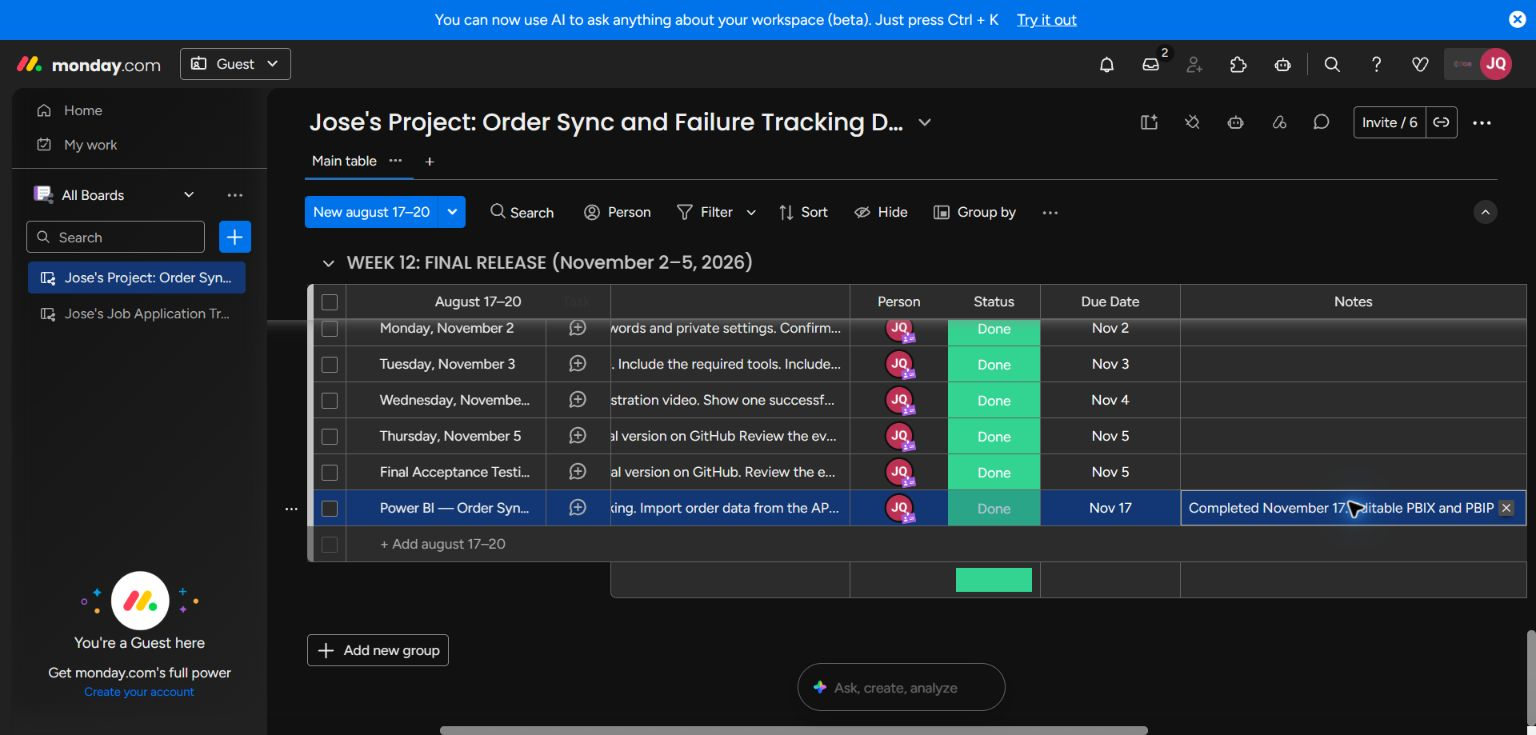
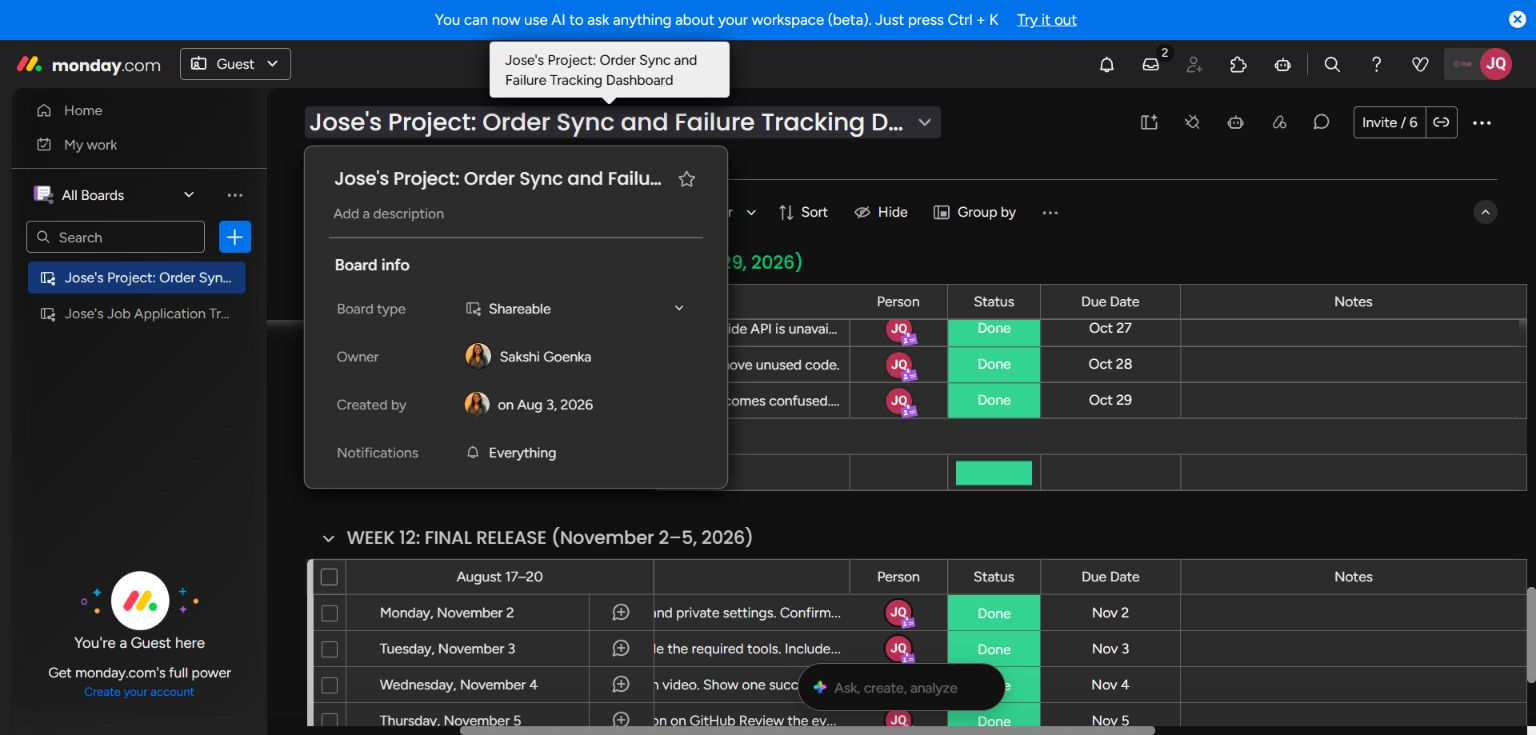
Record confirmed independent testing in project guide

diff --git a/order-sync-tracking/scripts/build_guide.py b/order-sync-tracking/scripts/build_guide.py
@@ -87,7 +87,7 @@ for path,body in [
  ('dashboard/app/page.js','Show the queue, order form, filters, and action buttons.')]:
     y=para('<b>'+path+'</b><br/>'+body,48,y,size=11)
 para('<b>Verified:</b> 22 acceptance checks, 6 Postman assertions, connection failure, restart persistence, UTC timestamps, report totals, and report filters. The saved snapshot contains 45 orders, 35 completed, 6 failed, and 4 ready to send.',48,130,size=11)
-para('<b>Still pending:</b> an independent person tries the app and records feedback. Future work includes login, a real provider contract, provider-side duplicate protection, and scheduled report refresh.',48,65,size=10)
+para('<b>Independent review:</b> another person tested the project, confirmed by the project owner on November 17, 2026. Future work includes login, a real provider contract, provider-side duplicate protection, and scheduled report refresh.',48,65,size=10)
 pdf.showPage()
 
 page(8,'A short walkthrough','Use this order when explaining how the project works.')

diff --git a/order-sync-tracking/docs/Monday checklist.md b/order-sync-tracking/docs/Monday checklist.md
@@ -15,10 +15,10 @@ Reviewed November 17, 2026. Existing Done labels were not treated as proof of im
 | 8 | Connection failures, validation and saved errors | attempt records; timeout, 503 and invalid-response tests |
 | 9 | Logging, retry, duplicate prevention and trace | built-in .NET logs; attempts/events; concurrency test |
 | 10 | Next.js dashboard, details, filters and retry | dashboard/app |
-| 11 | Success/error checks, fixes and independent tester | automated checks complete; another person's review remains pending |
+| 11 | Success/error checks, fixes and independent tester | automated checks complete; independent testing confirmed by the project owner on November 17, 2026 |
 | 12 | README, screenshots, walkthrough and final release | docs and repository release |
 | November addition | Power BI implementation | powerbi project, data export, DAX measures and guide |
 
 ## Independent review
 
-A separate person should try creating an order, finding a failure, retrying it, and refreshing the report. Record what confused them and any resulting changes. Automated checks do not substitute for this step.
+Completed based on the project owner's confirmation on November 17, 2026: another person tested the project. The tester's name, specific steps, and feedback were not provided; no additional findings are claimed.

diff --git a/order-sync-tracking/README.md b/order-sync-tracking/README.md
@@ -66,7 +66,7 @@ This is a local, single-instance application. The receiver supplies controlled H
 
 Future changes: real warehouse contract and credentials, user login, provider-side idempotency, a background retry queue, multi-instance locking, scheduled Power BI refresh, and an explicit review step for timeouts with uncertain receiver outcomes.
 
-See `docs/Monday checklist.md` for the project plan and remaining human review.
+See `docs/Monday checklist.md` for the project plan and verification record. The project owner confirmed on November 17, 2026 that another person tested the project.
 
 ## Walkthrough files
 
